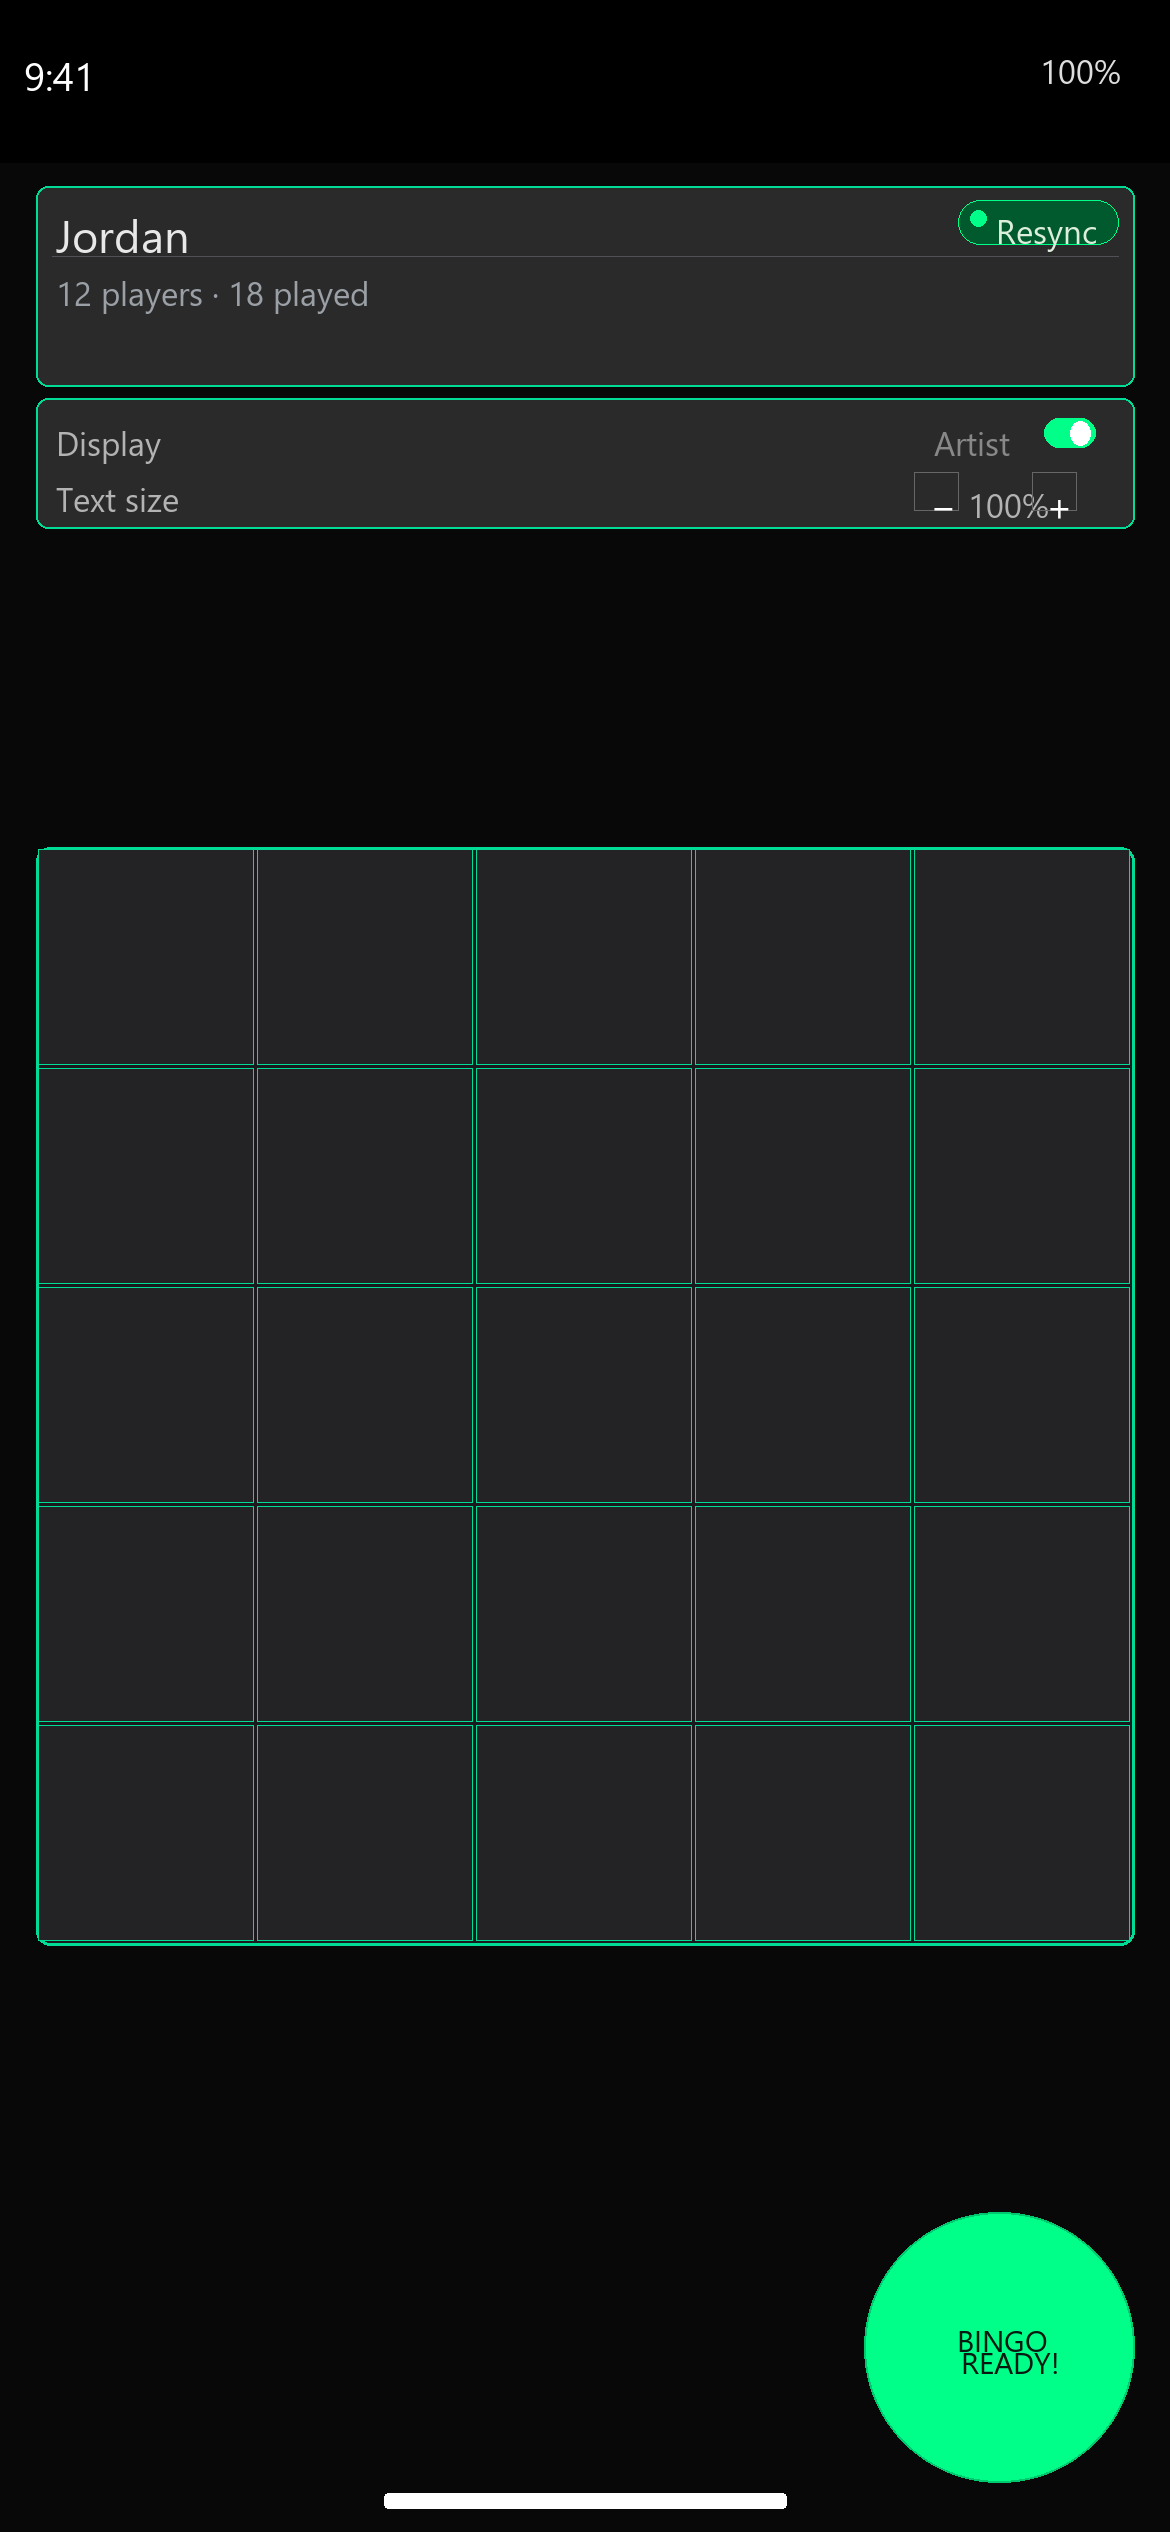
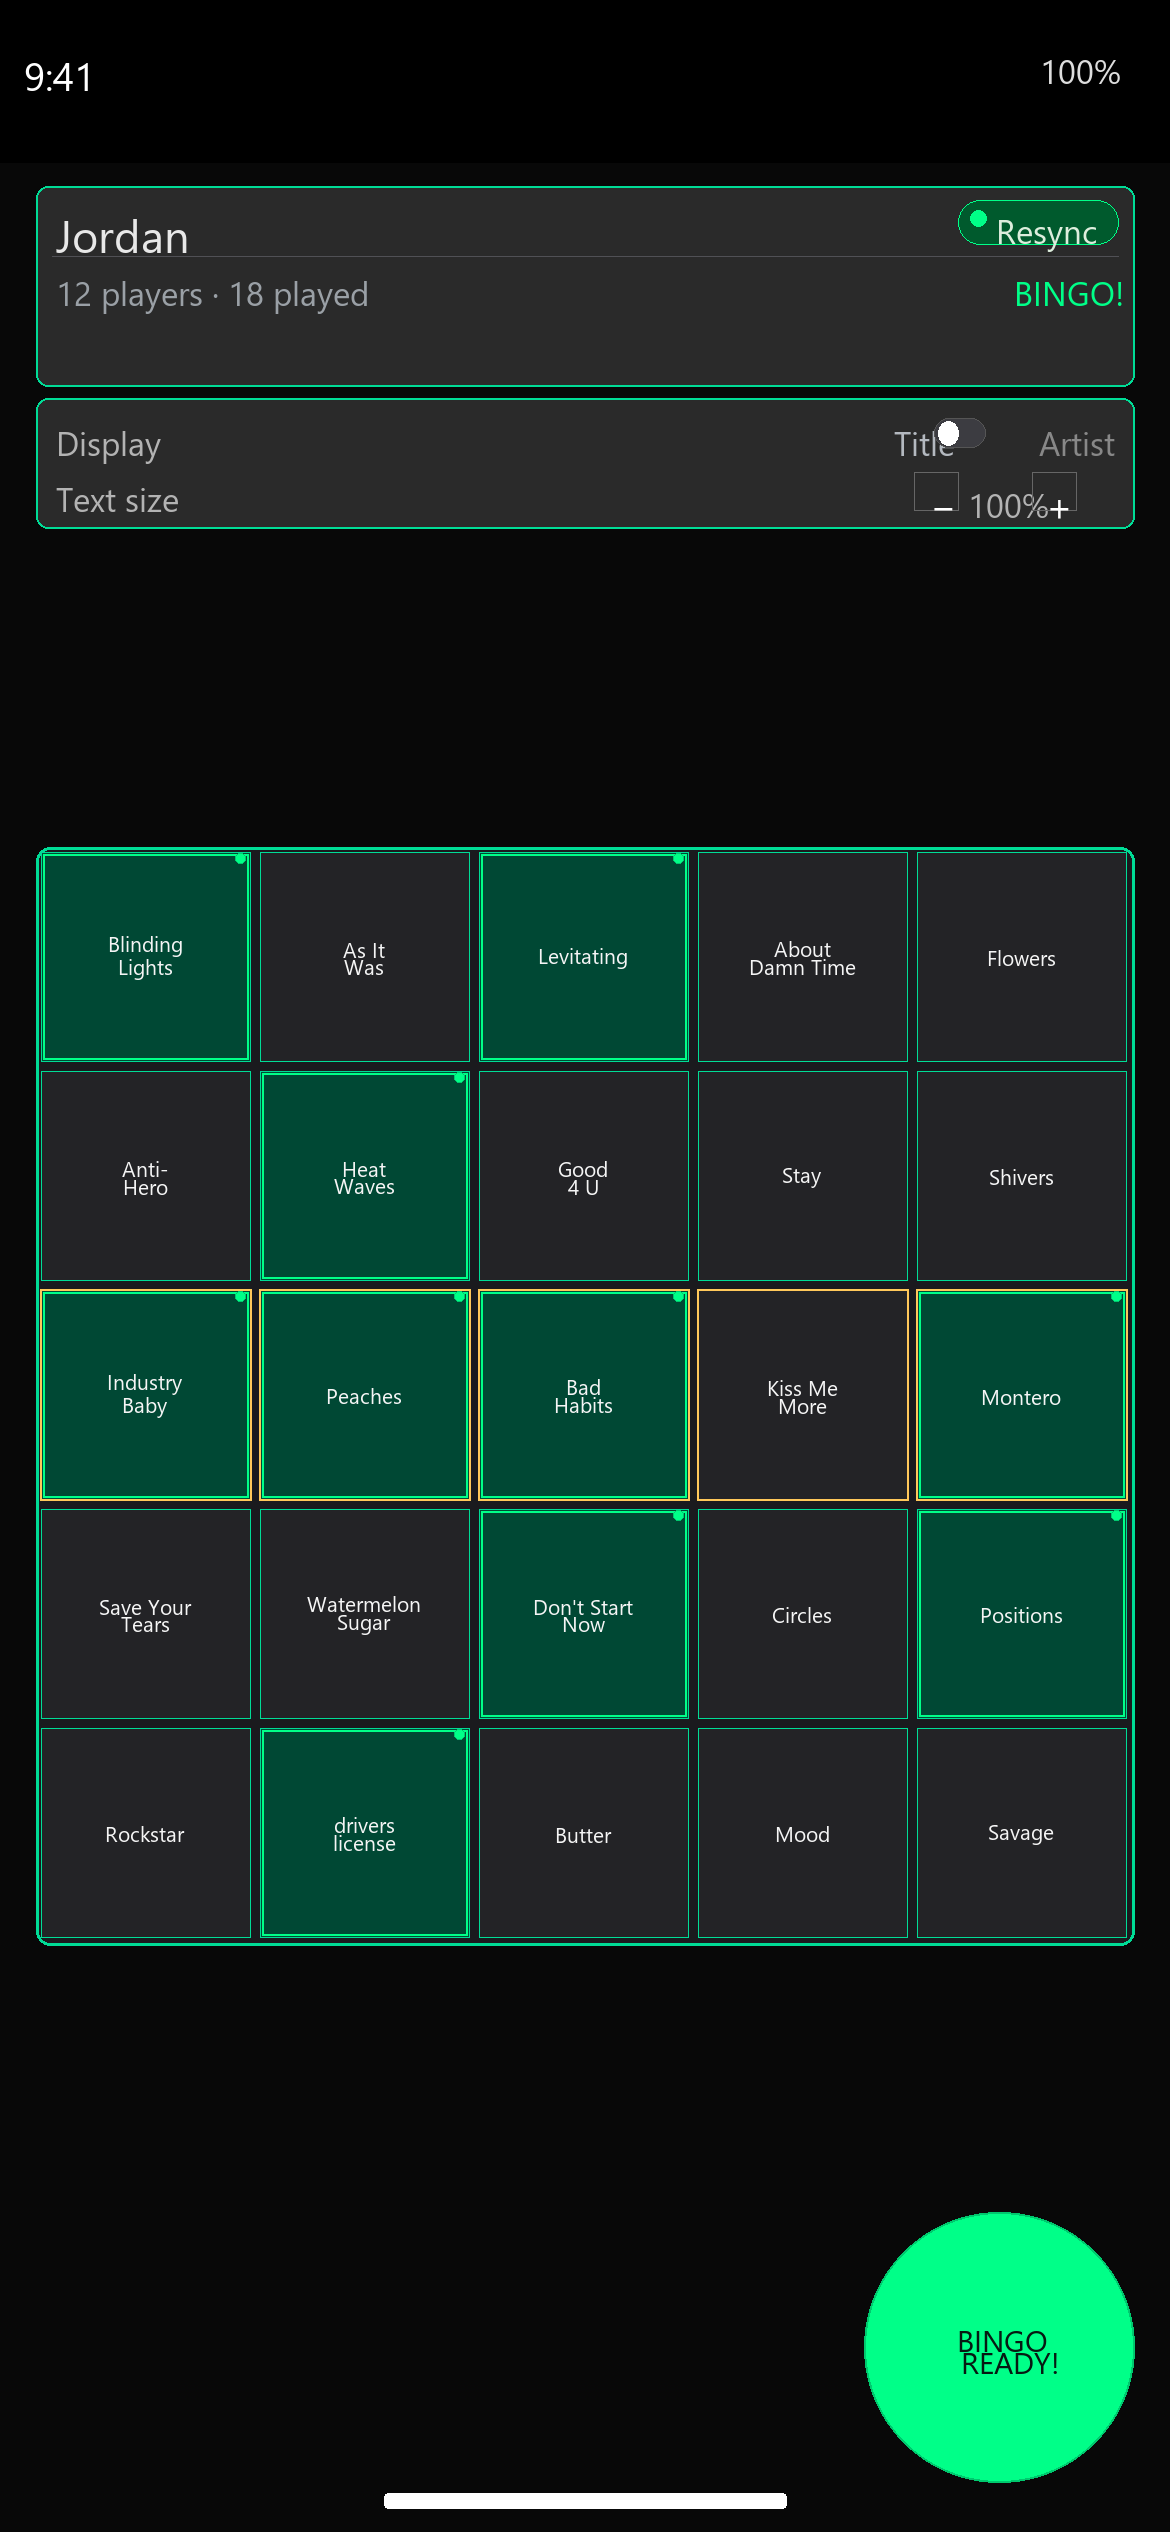
docs(mockups): physical ref PNG mirrors mid-game player (titles, marks, pattern)
Made-with: Cursor

diff --git a/docs/mockups/export_physical_ref.py b/docs/mockups/export_physical_ref.py
@@ -1,22 +1,103 @@
-"""Generate 1170x2532 PNG for full-screen phone size check. Run: python export_physical_ref.py"""
+"""Generate 1170x2532 PNG: mid-game player view (filled grid, marks, pattern hint).
+
+Run: python export_physical_ref.py
+Requires: Pillow
+"""
 from __future__ import annotations
+
 import os
 from PIL import Image, ImageDraw, ImageFont
 
 W, H = 1170, 2532
 S = W / 390.0
 GREEN = (0, 255, 136)
+GREEN_DIM = (0, 200, 110)
 GRID_BORDER = (0, 220, 150)
 CELL_BG = (35, 35, 38)
+CELL_MARKED = (0, 72, 52)
 CHROME_BG = (42, 42, 42)
+GOLD = (255, 200, 90)
+TEXT = (245, 245, 245)
+TEXT_DIM = (180, 185, 192)
 
-def load_font(size: int):
+# Mid-game: titles showing; host has played ~18 songs; player marking toward a line pattern
+SONGS = [
+    "Blinding\nLights",
+    "As It\nWas",
+    "Levitating",
+    "About\nDamn Time",
+    "Flowers",
+    "Anti-\nHero",
+    "Heat\nWaves",
+    "Good\n4 U",
+    "Stay",
+    "Shivers",
+    "Industry\nBaby",
+    "Peaches",
+    "Bad\nHabits",
+    "Kiss Me\nMore",
+    "Montero",
+    "Save Your\nTears",
+    "Watermelon\nSugar",
+    "Don't Start\nNow",
+    "Circles",
+    "Positions",
+    "Rockstar",
+    "drivers\nlicense",
+    "Butter",
+    "Mood",
+    "Savage",
+]
+
+# Marked = heard & tapped (song played)
+MARKED = {
+    (0, 0),
+    (0, 2),
+    (1, 1),
+    (2, 0),
+    (2, 1),
+    (2, 2),
+    (2, 4),
+    (3, 2),
+    (3, 4),
+    (4, 1),
+}
+# Middle row pattern hint (e.g. “any line” host pattern — visual cue on row 2)
+PATTERN = {(2, 0), (2, 1), (2, 2), (2, 3), (2, 4)}
+
+
+def load_font(size: int) -> ImageFont.FreeTypeFont | ImageFont.ImageFont:
     for path in (r"C:\Windows\Fonts\segoeui.ttf", r"C:\Windows\Fonts\arial.ttf"):
         if os.path.isfile(path):
             return ImageFont.truetype(path, size)
     return ImageFont.load_default()
 
-def main():
+
+def draw_cell_text(
+    dr: ImageDraw.ImageDraw,
+    text: str,
+    box: tuple[int, int, int, int],
+    font: ImageFont.FreeTypeFont | ImageFont.ImageFont,
+    fill: tuple[int, int, int],
+) -> None:
+    x1, y1, x2, y2 = box
+    lines = text.split("\n")
+    line_heights = []
+    for ln in lines:
+        bbox = dr.textbbox((0, 0), ln, font=font)
+        line_heights.append(bbox[3] - bbox[1])
+    gap = 2
+    total_h = sum(line_heights) + gap * (len(lines) - 1) if lines else 0
+    cy = y1 + max(4, (y2 - y1 - total_h) // 2)
+    for ln, lh in zip(lines, line_heights):
+        bbox = dr.textbbox((0, 0), ln, font=font)
+        tw = bbox[2] - bbox[0]
+        x = x1 + max(2, (x2 - x1 - tw) // 2)
+        dr.text((x, cy), ln, fill=fill, font=font)
+        cy += lh + gap
+
+
+def main() -> None:
     out_dir = os.path.dirname(os.path.abspath(__file__))
     out = os.path.join(out_dir, "player-physical-ref-1170x2532.png")
     img = Image.new("RGB", (W, H), "#080808")
@@ -25,6 +106,7 @@ def main():
     f_md = load_font(int(13 * S))
     f_sm = load_font(int(11 * S))
     f_xs = load_font(int(10 * S))
+    f_cell = load_font(max(14, int(7 * S)))  # ~21px — readable in cell
 
     sb_h = 162
     dr.rectangle([0, 0, W, sb_h], fill="#000")
@@ -46,17 +128,20 @@ def main():
     dr.line([mx + 16, iy2, W - mx - 16, iy2], fill=(80, 80, 85))
     iy2 += 14
     dr.text((mx + 20, iy2), "12 players · 18 played", fill="#9aa0a6", font=f_sm)
+    dr.text((W - mx - 120, iy2), "BINGO!", fill=GREEN, font=f_sm)
     y += hdr_h + 12
 
     ctrl_h = 130
     dr.rounded_rectangle([mx, y, W - mx, y + ctrl_h], radius=12, outline=GRID_BORDER, width=2, fill=CHROME_BG)
     cy = y + 22
     dr.text((mx + 20, cy), "Display", fill="#b3b3b3", font=f_sm)
-    dr.text((W - mx - 200, cy), "Artist", fill="#888", font=f_sm)
+    dr.text((W - mx - 240, cy), "Title", fill=TEXT_DIM, font=f_sm)
+    dr.text((W - mx - 95, cy), "Artist", fill="#888", font=f_sm)
     tw, th = 51, 29
-    tx = W - mx - 90
-    dr.rounded_rectangle([tx, cy - 2, tx + tw, cy - 2 + th], radius=14, fill=GREEN)
-    dr.ellipse([tx + tw - 25, cy + 1, tx + tw - 5, cy + 25], fill="#fff")
+    tx = W - mx - 200
+    dr.rounded_rectangle([tx, cy - 2, tx + tw, cy - 2 + th], radius=14, fill=(60, 60, 65), outline="#555")
+    dr.ellipse([tx + 4, cy + 1, tx + 24, cy + 25], fill="#fff")
+
     cy2 = y + 78
     dr.text((mx + 20, cy2), "Text size", fill="#b3b3b3", font=f_sm)
     bx = W - mx - 220
@@ -74,17 +159,48 @@ def main():
     x0 = (W - side) // 2
     y0 = y + max(0, (avail_h - side) // 2)
     dr.rounded_rectangle([x0, y0, x0 + side, y0 + side], radius=14, outline=GRID_BORDER, width=3, fill="#1a1a1e")
+
     cell = side // 5
-    for row in range(5):
-        for col in range(5):
-            cx, cy = x0 + col * cell, y0 + row * cell
-            p = 2
-            dr.rectangle([cx + p, cy + p, cx + cell - p, cy + cell - p], outline=GRID_BORDER, width=1, fill=CELL_BG)
+    pad = max(2, cell // 40)
+
+    for idx, title in enumerate(SONGS):
+        row, col = idx // 5, idx % 5
+        cx = x0 + col * cell
+        cy = y0 + row * cell
+        inner = [cx + pad, cy + pad, cx + cell - pad, cy + cell - pad]
+
+        if (row, col) in MARKED:
+            dr.rectangle(inner, outline=GRID_BORDER, width=1, fill=CELL_MARKED)
+            dr.rectangle(
+                [inner[0] + 2, inner[1] + 2, inner[2] - 2, inner[3] - 2],
+                outline=GREEN,
+                width=2,
+            )
+        else:
+            dr.rectangle(inner, outline=GRID_BORDER, width=1, fill=CELL_BG)
+
+        if (row, col) in PATTERN:
+            dr.rectangle(
+                [inner[0] - 1, inner[1] - 1, inner[2] + 1, inner[3] + 1],
+                outline=GOLD,
+                width=2,
+            )
+
+        text_box = [inner[0] + 4, inner[1] + 4, inner[2] - 4, inner[3] - 14]
+        draw_cell_text(dr, title, text_box, f_cell, TEXT)
+
+        if (row, col) in MARKED:
+            dot_r = 5
+            dr.ellipse(
+                [inner[2] - 10 - dot_r, inner[1] + 6 - dot_r, inner[2] - 10 + dot_r, inner[1] + 6 + dot_r],
+                fill=GREEN,
+                outline=GREEN_DIM,
+            )
 
     fab_r = 135
     fcx = W - mx - fab_r
     fcy = H - 50 - fab_r
-    dr.ellipse([fcx - fab_r, fcy - fab_r, fcx + fab_r, fcy + fab_r], fill=GREEN, outline=(0, 200, 110), width=2)
+    dr.ellipse([fcx - fab_r, fcy - fab_r, fcx + fab_r, fcy + fab_r], fill=GREEN, outline=GREEN_DIM, width=2)
     dr.text((fcx - 42, fcy - 28), "BINGO", fill="#061a12", font=f_xs)
     dr.text((fcx - 38, fcy - 6), "READY!", fill="#061a12", font=f_xs)
 
@@ -95,6 +211,7 @@ def main():
 
     img.save(out, "PNG", optimize=True)
     print(out)
+
 
 if __name__ == "__main__":
     main()

diff --git a/docs/mockups/README.md b/docs/mockups/README.md
@@ -1,37 +1,38 @@
-# Player UI mockups
+# Player UI mockups
 
 ## `player-in-game-390x844.html`
 
-Static **in-game** player screen at **390×844 CSS pixels** — the logical resolution of **iPhone 14 / 15** (and similar) in portrait.
+Static **in-game** player screen at **390Ã—844 CSS pixels** â€” the logical resolution of **iPhone 14 / 15** (and similar) in portrait.
 
-- Sizes mirror `client/src/App.css` and the player FAB from `PlayerView.tsx` (toggle 42×24px, header padding, `min()` bingo card rule, 90px FAB at 390px width, etc.).
+- Sizes mirror `client/src/App.css` and the player FAB from `PlayerView.tsx` (toggle 42Ã—24px, header padding, `min()` bingo card rule, 90px FAB at 390px width, etc.).
 - Includes a **fake iOS status bar** and **home indicator** so the frame feels like a **real screenshot**.
 
 ### See it at true physical scale
 
 1. Copy/open the file on your **iPhone** (AirDrop, Files, or host via `npx serve` from repo root).
-2. Open in **Safari**, zoom so the black frame fills the width (on a **390 pt** wide phone that’s usually default).
-3. **Screenshot** — you get a PNG at the device’s native scale (e.g. **1170×2532** @3×), with elements sized like the mock.
+2. Open in **Safari**, zoom so the black frame fills the width (on a **390 pt** wide phone thatâ€™s usually default).
+3. **Screenshot** â€” you get a PNG at the deviceâ€™s native scale (e.g. **1170Ã—2532** @3Ã—), with elements sized like the mock.
 
 **Limitations:** Browser chrome, Dynamic Island, system font/size settings, and `100vh` vs `dvh` can differ slightly from the production Vite app. For the shipped app, run the real client on device; this mock is for layout/scale reference.
 
 ## App behavior (live player)
 
-The real **`PlayerView`** uses a **single unified chrome**: header (name, players, songs played, connection + Resync) and one controls row (Display / Title–Artist, Text size). There is **no** separate “Focus card” / minimal top bar mode.
+The real **`PlayerView`** uses a **single unified chrome**: header (name, players, songs played, connection + Resync) and one controls row (Display / Titleâ€“Artist, Text size). There is **no** separate â€œFocus cardâ€ / minimal top bar mode.
 
 ## `player-physical-ref-1170x2532.png`
 
-**Exactly 1170×2532 pixels** — native portrait size for **iPhone 14 / 15** (@3× from 390×844 logical).
+**Exactly 1170Ã—2532 pixels** â€” native portrait size for **iPhone 14 / 15** (@3Ã— from 390Ã—844 logical).
 
 1. AirDrop or save the PNG to your iPhone **Photos**.
 2. Open the image and **tap to hide chrome** (or use full-screen preview).
 3. **Pinch / zoom** so the picture **fills the screen width** edge-to-edge.
 
-On a **1170×2532** display, image pixels map about **1:1** to screen pixels, so chrome + grid + FAB sizes are a decent **physical** sanity check (illustration, not the live app).
+On a **1170Ã—2532** display, image pixels map about **1:1** to screen pixels, so chrome + grid + FAB sizes are a decent **physical** sanity check (illustration, not the live app).
 
-**Other phones:** Same file still shows *relative* scale; your device may letterbox or scale — use pinch-to-fill width to compare.
+**Other phones:** Same file still shows *relative* scale; your device may letterbox or scale â€” use pinch-to-fill width to compare.
 
 ## `export_physical_ref.py`
 
 Regenerate the reference PNG (needs **Pillow**):  
 `python docs/mockups/export_physical_ref.py`
+